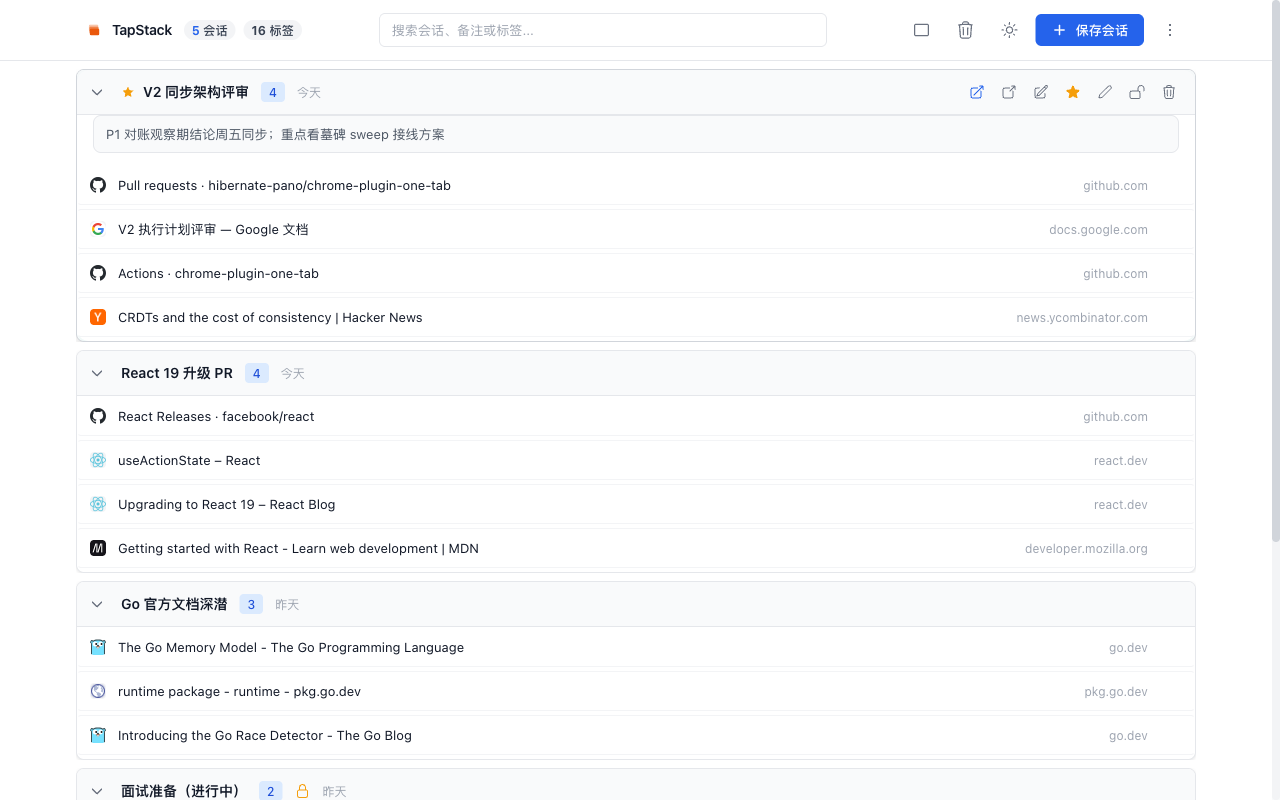
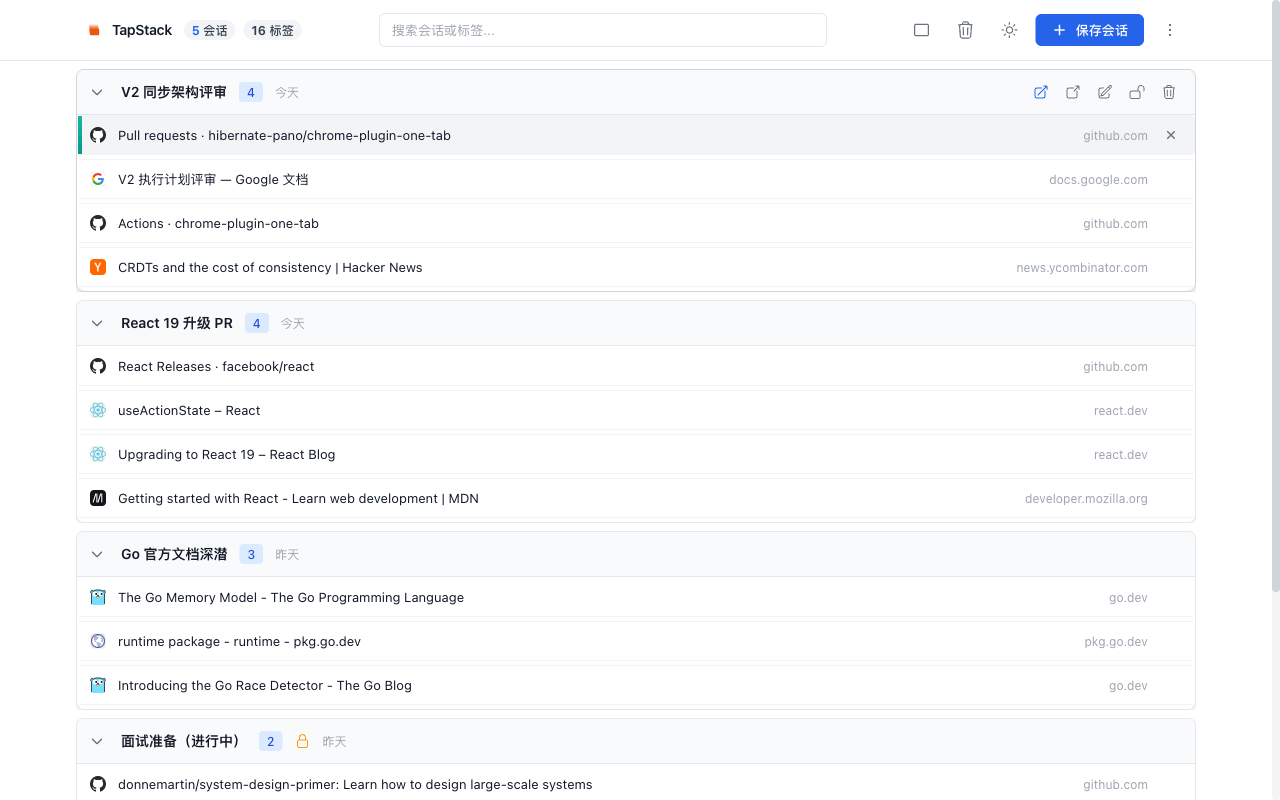
chore(release): 1.22.15 版本五处同步 + 发版台账 + 商店 listing/截图收口
- 版本号一次同步到位（package.json / manifest.json / .env.example / README /
  CHROMEWEBSTORE），中间 commit 不反复 bump。
- CHROMEWEBSTORE listing 删掉「点开标签会自动从会话中移除」（1.22.13 已反转）与
  「按域名排序视图」，中英各一处；两张截图 2026-10-08 重拍，状态改 ✅ Ready。
- docs/RELEASE-NOTES 补 v1.22.15 一节（含 P0 真库门禁环境适配与变异验证结果）。
- p0DataSafetyGuards 补三条守卫：listing 抽取不再被 HTML 注释里的 --- 骗过、
  listing 不得再写自动移除、引导与搜索框不得再出现「备注 / 收藏」。

diff --git a/tests/p0DataSafetyGuards.test.ts b/tests/p0DataSafetyGuards.test.ts
@@ -10,7 +10,8 @@
 
 import { describe, it, before } from 'node:test';
 import assert from 'node:assert/strict';
-import { readFileSync } from 'node:fs';
+import { readFileSync, readdirSync } from 'node:fs';
+import { fileURLToPath } from 'node:url';
 
 const ROOT = new URL('..', import.meta.url);
 const read = (rel: string) => readFileSync(new URL(rel, ROOT), 'utf8');
@@ -20,6 +21,18 @@ function code(rel: string): string {
   return read(rel)
     .replace(/\/\*[\s\S]*?\*\//g, '')
     .replace(/(^|[^:])\/\/.*$/gm, '$1');
+}
+
+/**
+ * 抽出商店 listing 的正文（中英两段）。
+ *
+ * 【为什么不能用 '---' 切】历史版本写的是 .split('---')[0]，而第一个 '---' 出现在
+ * listing 上方第 20 行的 **HTML 注释**里（「中英双语用 --- 分隔」）—— 于是断言只扫到
+ * 65 个字符的注释碎片，永远读不到正文。后果是 1.22.13 删了功能、listing 却继续宣传
+ * 旧行为，而「本该拦住它的守卫」一直是绿的。'## ' 标题只出现在文档骨架里，安全。
+ */
+function listingBody(): string {
+  return read('CHROMEWEBSTORE.md').split('**Detailed Description**')[1]?.split('\n## ')[0] ?? '';
 }
 
 before(() => {
@@ -189,17 +202,80 @@ describe('减法（2026-10-07）：备注与收藏已下线，不得复活', () 
   });
 
   it('文档不得再宣传这两项（商店审核会核对）', () => {
-    for (const doc of ['README.md', 'CHROMEWEBSTORE.md']) {
-      const src = read(doc);
-      // 历史 changelog 行允许出现（那是版本史），只查「当前能力」段落。
-      const capability = src.split('## 当前能力')[1]?.split('\n## ')[0] ?? '';
-      const listing = src.split('**Detailed Description**')[1]?.split('---')[0] ?? '';
-      for (const text of [capability, listing]) {
-        assert.ok(
-          !/备注|收藏/.test(text),
-          `${doc} 的能力介绍里还有「备注」或「收藏」—— 功能已下线，文案必须同步`
-        );
-      }
+    // 商店 listing 正文 —— 审核员读的就是这一段。
+    const listing = listingBody();
+    assert.ok(
+      listing.length > 400,
+      `CHROMEWEBSTORE.md 的 listing 正文只抽到 ${listing.length} 字符，抽取逻辑退化了（应能读到中英两段正文）`
+    );
+
+    // README 用的是另一套骨架，没有 Detailed Description，抽「当前能力」段。
+    const capability = read('README.md').split('## 当前能力')[1]?.split('\n## ')[0] ?? '';
+    assert.ok(
+      capability.length > 100,
+      `README.md 的「当前能力」段只抽到 ${capability.length} 字符，抽取逻辑退化了`
+    );
+
+    for (const [name, text] of [
+      ['CHROMEWEBSTORE.md listing', listing],
+      ['README.md 当前能力', capability],
+    ] as const) {
+      assert.ok(
+        !/备注|收藏/.test(text),
+        `${name} 里还有「备注」或「收藏」—— 功能已下线，文案必须同步`
+      );
     }
+  });
+
+  it('商店 listing 不得声称「点开标签会自动从会话移除」（1.22.13 已反转）', () => {
+    // 这条是审核员会读的正文。1.22.13 把「点开即删」改成两步（先标记已打开，
+    // 再用独立按钮移除），但同一份提交的 listing 第 27/46 行仍在写旧行为 ——
+    // 描述与实现相反，且与自己的 changelog 自相矛盾。
+    const listing = listingBody();
+    assert.ok(listing.length > 400, 'listing 抽取失败，无法判断（见上一条的抽取断言）');
+    assert.ok(
+      !/自动从会话中移除/.test(listing),
+      '中文 listing 仍写「点开单个标签…它会自动从会话中移除」—— 该行为已于 1.22.13 移除'
+    );
+    assert.ok(
+      !/it is then removed from the session/.test(listing),
+      'English listing still promises the tab is removed from the session on click — reversed in 1.22.13'
+    );
+  });
+
+  it('新手引导与搜索框等用户可见文案里不得再出现「备注 / 收藏」', () => {
+    // 【为什么单独加这一条】前一版守卫只扫标识符（FavoriteIcon / searchNotes /
+    // group.notes）与两份文档的「当前能力」段，于是 1.22.13 把功能删干净了、
+    // 文案却一处没动：OnboardingSteps 还有整张「备注与收藏」「⭐ 收藏重要会话」
+    // 特性卡，Header 的搜索框 placeholder/aria-label 也还在写「备注」。
+    // 新手引导是**每个新用户的第一屏**。标识符守卫防「功能复活」，
+    // 文本守卫防「宣传没删」—— 两个不同的问题。
+    const offenders: string[] = [];
+    const walk = (dir: URL): string[] => {
+      const entries = readdirSync(dir, { withFileTypes: true });
+      const files: string[] = [];
+      for (const e of entries) {
+        const child = new URL(e.name + (e.isDirectory() ? '/' : ''), dir);
+        if (e.isDirectory()) files.push(...walk(child));
+        else if (/\.(ts|tsx)$/.test(e.name)) files.push(fileURLToPath(child));
+      }
+      return files;
+    };
+
+    for (const file of walk(new URL('src/', ROOT))) {
+      const stripped = readFileSync(file, 'utf8')
+        .replace(/\/\*[\s\S]*?\*\//g, ' ')
+        .replace(/(^|[^:])\/\/[^\n]*/g, '$1');
+      stripped.split('\n').forEach((line, i) => {
+        if (/备注|收藏/.test(line)) {
+          offenders.push(`${file.replace(fileURLToPath(ROOT), '')}:${i + 1}  ${line.trim().slice(0, 90)}`);
+        }
+      });
+    }
+    assert.deepEqual(
+      offenders,
+      [],
+      `以下 src 文件仍有用户可见的「备注 / 收藏」文案（功能已于 1.22.13 下线，新手引导与搜索框是最常漏的两处）：\n  ${offenders.join('\n  ')}`
+    );
   });
 });

diff --git a/docs/RELEASE-NOTES.md b/docs/RELEASE-NOTES.md
@@ -8,6 +8,119 @@
 > 长期台账**（含根因、踩坑、修复顺序），不必翻译成英文、不必对齐商店审核口径。
 > 两边都会写「本版改了什么」，但只有本文件会记住「为什么」和「后来怎么验证的」。
 
+## v1.22.15（2026-10-07，待提审）
+
+**这版的由来**：1.22.14 提交后做了一轮五方向并行审查（1.22.12 / 1.22.13 / 1.22.14 各一，加上迁移与商店文案、测试质量两条横向）。结论是：**代码层面两个 P0 修复是真的关上了**，但「修复被守卫住」这件事没做到，而且商店面还挂着已下线功能的宣传。本版修的是审查确认的问题，并把「守卫本身不会红」这一类也补上。
+
+### P0 —— 会丢会话的分页缺陷
+
+1. **下载分页的排序键不允许并列**（`src/utils/supabase/download.ts`）。分页是 offset/limit，排序只给了 `created_at`。而 `created_at` **不是唯一键**：`oneTabFormatParser` 给同一批导入的每个组盖同一个 `now`，`factory` 用 `new Date().toISOString()`，连续快存会撞在同一毫秒。Postgres 对并列行不给跨查询顺序保证 ⇒ 页窗口重叠/跳过。
+
+   **实测量级**（真 PG 16，450 行同一 `created_at`）：三次连续下载分别漏掉 **113 / 114 / 105** 个不同 id，而且因为是短页退出（`page.length < PAGE_SIZE`），**没有任何报错**。
+
+   **后果是真丢数据**：漏掉的行被 `mergeOpStamped` 当作「云端不存在」，本地旧副本随后上传，覆盖掉更新的云端版本。
+
+   **原注释还写着错的结论**：「分页窗口基于稳定排序，页间无重叠/无遗漏」——这句话在非唯一排序键上不成立。
+
+   修法：`.order('created_at', {ascending:false}).order('id', {ascending:false})`，排序成为全序。
+
+   **为什么原测试抓不到**：`upsertDownloadBatching.test.ts` 的 fixture 用 `new Date(2026,0,1,0,0,0,i)` 造**严格递增**的 created_at，假云端又按插入顺序 slice —— **并列这个维度根本没被建模**。那是 fixture 的产物，不是现实。
+
+### P1 —— 读不到就必须说读不到，而不是编一个答案
+
+2. **`getLastUploadTime` 的 `catch { return null }`**（`src/utils/storage.ts`）。`null` 的语义是「从未上传过」，于是瞬时读失败（死句柄看门狗 abort / quota / 事务 abort）会把 35 秒的 `recent_upload_guard` 静默关掉。它与 `getPendingUpload` 在**同一个 `Promise.all`** 里被 `downloadAndMerge` 读取 —— 1.22.13 只把其中一个改成了 fail-closed。现在改为抛错，与兄弟函数同口径（调用方的 catch 已经会返回 `precheck_unknown`）。
+
+3. **JSON 备份导入的假成功**（`src/utils/storage.ts`）。全部标签都是不可存储 URL 时，`applyImportGroups` 过滤后返回空，但 `importData` 一路返回 `true` ⇒ 弹「成功」+ reload，列表什么都没多。1.22.14 把 `importFromOneTabFormat` 修好了，**JSON 这条路漏了**。现在发送前判「可导入组数」，为 0 时如实失败。
+
+3b. **旧备份文件的形状容错**（`src/core/normalizeTabsData.ts` 新增 `normalizeImportedGroup`）。这是用户报的「导入之前下载的标签失败」的**直接根因之一**：JSON 备份是用户手上的文件、形状不可信，而 `applyImportGroups` 直接 `group.tabs.reduce(...)` —— 组里没有 `tabs`（旧版本/云端导出用的是 `tabs_data`）就抛 `Cannot read properties of undefined (reading 'reduce')` 并让 `importData` 返回 false：用户看到「导入失败」却无从得知原因，**而他的文件其实是好的**。
+
+   下载路径早就用 `normalizeTabsData` 处理同一类形状（云端历史坏行），**导入路径此前没有** —— 这个不对称就是缺陷本身。现在两处同口径，并顺带补了**元素级**归一化（本地 `Tab` 是 camelCase `createdAt`/`lastAccessed`，云端 `TabData` 是 snake_case `created_at`/`last_accessed`；`normalizeTabsData` 只管容器形状、不管元素，所以从旧文件导入会丢时间戳 —— 该缺口在 `docs/dev-plan-2026-10-05.md` 的 A3 里已登记过）。容错清单：`tabs_data`/`tabsData`/`groups` 键名、嵌套 wrapper（`tabs_data:{tabs:[…]}`）、组与标签两级的 snake_case、缺 `name` 的可读回退、旧键 `is_locked`。
+
+   **验证**：6 条新用例走真实 `importData` 路径（断言发往 SW 的载荷）；另验证了分层不变 —— popup 交给 SW 的是**原始**标签，`chrome://` / `edge://` / `javascript:` 仍由 SW 侧 `applyImportGroups` 在落库前丢弃（安全边界未被放宽），`file://` 与 `blob:` 保留。
+
+4. **恢复会话路径把广播警告丢掉了**（`TabGroup.openAllTabs` + `SearchResultList` 三处）。删除类操作的第二步（云端删除标记登记）失败时 SW 会带 `broadcastWarn` 回来；UI 不读它，用户就以为删除/恢复成功，而云端行还活着 ⇒ 对端下次合并把会话复活（v1.22.0 起无回收站）。这两个调用点恰好是**最常用的「恢复整个会话」**。
+
+   **为什么原守卫抓不到**：`tests/noSilentFalseSuccess.test.ts` 断言的是 `deleteBroadcastWarn` 出现次数 `>= 3`。那是**计数**不是不变量 —— 实测再加一个不读警告的 `dispatch(deleteGroup(...))`，14 个用例依然全绿；而搜索列表那条路径里它出现 **0** 次却一路绿灯。已改成「每个删除类调用点的链上都必须读」，并对 4 个组件文件逐个调用点校验。
+
+5. **`precheck_unknown` 等内部代号直接弹给用户**（`src/components/sync/SyncButton.tsx`）。增补中文文案映射（`precheck_unknown` / `pending_upload_failed` / `snapshot_failed` / `already_syncing`）。
+
+### 商店面 —— 提审阻塞
+
+6. **新手引导仍在宣传已下线功能**（`src/components/onboarding/OnboardingSteps.tsx`）：还有整张「备注与收藏」卡、「⭐ 收藏重要会话」卡，以及三处提到「备注」的句子。**这是每个新用户的第一屏**。
+   顺带发现审查报告没提到的第六处：一张 **「Web 仪表盘」**卡（网页版在 1.22.11 已物理删除，README 已不再宣传），以及卡片文案里的「保存、重命名、备注都自动备份」。
+7. **搜索框 placeholder / aria-label 与空态提示**（`Header.tsx` / `SearchResultList.tsx`），并同步了 `OnboardingGuide` 的聚光灯锚点（`a11yLists.test.ts` 的「选择器能命中真实元素」守卫就是为这种失配准备的）。
+8. **商店 listing 仍在写「点开标签会自动从会话中移除」**（中英各一处）—— 正是 1.22.13 宣告反转的行为，与同一份提交的 changelog 自相矛盾。
+9. **搜索结果的「已打开」态从不渲染**：`markTabOpened` 一直在跑，但 `SearchResultList` 的行没有条件类也没有徽章（`DraggableTab` 有）。点开搜索命中后界面毫无变化，用户分不清「已标记」与「没生效」。已补齐，并统一了删除按钮文案。
+10. **两张商店截图已于 2026-10-08 重拍**（页脚 v1.22.15），两行状态 ✅ Ready。
+
+### 迁移重放 —— 静默跳过后面的安全迁移
+
+11. **全量重放会在第 2 个文件中止，后面 22 个文件从未尝试**。5 个历史文件是裸语句（真 PG 16 两遍重放实测）：
+    - `20251014063149` 2 条 `ALTER PUBLICATION … ADD TABLE`（**排在最前，所以一挂就断掉全部后续**）
+    - `20251014063156` 8 条裸 `CREATE POLICY`
+    - `20260303044037` 3 条、`20260303044048` 2 条（审查报告漏了这个文件）、`20260326034522` 4 条（小写 `create policy`，grep 大小写敏感时容易漏）
+
+    而 `scripts/supabase-migrate.mjs` 用一个 try 包住整个 for 循环、出错即 `process.exit(1)` ⇒ 后面的 `20261005000000`（profiles PII 收口）与 `20261005000001`（REVOKE）**从未被尝试**，`verify()` 也不跑。
+
+    修法：每条 DDL 先查存在性（`pg_catalog.pg_policy` **基表**，不用按 `polroles` 过滤的 `pg_policies` 视图）。另把 `20260924090000` 的 5 条也从不稳定的视图判定改成基表判定（它重放能过只因为迁移器以 owner 身份连接）。
+
+12. **verify 把「迁移未执行」报成通过**：缺 purge 函数时旧实现打印「尚未执行 —— 跳过」并 `return true`，实测在那种库上确实输出 `VERIFY OK`。现改为失败（缺哪个函数都报），并补上「profiles 存在但 RLS 关闭」这条此前也没检的路径。
+
+### 真库门禁本身（P0 —— 门禁在开发机上根本没跑起来）
+
+13. **两个 `*.pg.test.ts` 起的 Postgres 在本机必挂，而挂法是「cancelled」不是「fail」**。
+    Homebrew PG 16.15 在 `LC_ALL` 为空/未设时拒绝启动，真原因只写在 pg.log 里：
+    `FATAL: postmaster became multithreaded during startup` / `HINT: Set the LC_ALL environment variable to a valid locale.`，
+    而 pg_ctl 自己只回一句「无法启动服务器进程」。实测：`LC_ALL`+`LANG` 全无 → 起不来；
+    `LC_ALL=` `LANG=` → 起不来；`LC_ALL=C`（或 `LANG=C`）→ 正常。
+    测试用 `execFileSync` 原样继承宿主环境，于是本机（以及任何 locale 不完整的环境）上
+    **13 条真库用例全部 cancelled、fail 0** —— 报告看起来一切正常，门禁等于不存在。
+
+    修法（新共享起停器 `tests/_helpers/pgHarness.ts`，两份门禁共用）：
+    - 所有 initdb/pg_ctl/psql 子进程统一注入 `env: { ...process.env, LC_ALL: 'C', LANG: 'C' }`；
+    - 起库/初始化失败**不再从 `before` hook 抛**（那会让 node:test 把整组标成 cancelled），
+      而是记进 `setupError`，由 `gate()` 在每个用例里 `assert.fail`，并把 pg.log 尾部
+      带进失败信息 —— 「装了二进制但库起不来」一定是红的；
+    - `SKIP_REASON` 只留给「`initdb`/`pg_ctl`/`psql` 根本不存在」一种情形；
+    - 启动前探测端口：首选端口被占就向后换（每份门禁 20 个的窗口），全占满则显式失败
+      并列出占用端口，不静默 skip；两份门禁的首选端口仍为 5599 / 5601，互不冲突。
+
+### 验证
+
+- `pnpm test` **935 → 992**（1.22.15 收尾实测：pass 992 / fail 0 / **cancelled 0**，退出码 0），`pnpm validate` 全绿，首屏 **193.6KB**（预算 240KB）。
+  cancelled 从 13 归零就是上面第 13 条的直接结果：真库门禁此前在开发机上整组 cancelled，现在真的在跑。
+- **新增端到端同步走查** `tests/syncRoundTripWalkthrough.test.ts`（按时间顺序走完一条旅程，而不是拆成不变量）：A 建 3 个会话 → 上传 → B（全新设备）下载（逐字段一致）→ A 改名 → B 看到新名字 → A 删除 → 上传广播 → B 下载**不复活**；另加规模走查（260 个会话、`created_at` 故意全并列）验证分批上传（6 个 UPSERT 请求）与分页下载（每页 200）零丢失。假云端与 `syncNoResurrectInvariants` 同一套 PostgREST 子集契约（不另造方言），另加两个 BEFORE UPDATE 守卫的逐条判定。变异验证：把上传路径的 `markCloudGroupsAsDeleted` 改成 no-op ⇒ 走查转红。
+- **每个修复都做了变异验证**（改回缺陷 ⇒ 必须变红），逐条结果见下节。
+- **迁移用真 PG 16 两遍/三遍重放**验证，并做了**终态等价性对比**：把 HEAD 的原始迁移跑在「对象事先不存在」的库上取参考快照，与加守卫后的版本对比 `pg_policies`（含 qual / with_check）/ `pg_publication_tables` / `regrowsecurity` / 触发器 / 函数（含 SECURITY DEFINER 与 ACL）/ 列定义 —— **89 行快照逐字相同**，证明守卫只把「重复创建」变成 no-op，没有改变终态。
+- **新增杀菌门禁**：`tests/guards/migrationReplay.pg.test.ts`（文本护栏 + 真库两遍重放，无 PG 时 skip）、`tests/downloadPaginationStability.test.ts`（在假云端里建模「并列行顺序不稳定」，并断言 id 集合完整性 + 任一页失败必须整体失败）。
+
+### 变异验证结果（改回缺陷 ⇒ 红）
+
+| 变异 | 结果 |
+|---|---|
+| 去掉下载的 `id` tiebreaker | 5 条中 3 条红 |
+| 恢复 `getLastUploadTime` 的 `catch { return null }` | 红 |
+| 关掉 importData 的「全不可导入」守卫 | 红 |
+| 去掉 `importData` 里的 `normalizeImportedGroup` | 红（4 条） |
+| 在 TabGroup 加一个不读 broadcastWarn 的第 4 个删除点 | 红（**旧的计数断言在这个变异下是全绿的**） |
+| 去掉恢复路径的 broadcastWarn 读取 | 红 |
+| 引导文案写回「备注」 | 红 |
+| listing 写回「自动从会话中移除」 | 红 |
+| listing 写回「收藏」 | 红 |
+| 迁移里写回一条裸 `CREATE POLICY` | 红（文本护栏 + 真库重放同时红） |
+| 迁移里写回裸 `ALTER PUBLICATION` | 红 |
+| `20260924090000` 退回 `pg_policies` 视图判定 | 红 |
+| 去掉起 PG 子进程的 `LC_ALL`+`LANG` 注入（回到修复前） | 红（**真库用例全部 fail、cancelled 0**；只去掉其中一个键不够，另一个会补位，所以反向验证要两个一起去） |
+
+### 本版没做（有意）
+
+- **商店截图已在本版内完成重拍**：`scripts/make-store-screenshots.mjs` 在 1.22.13 已经改好（不再注入备注/收藏），2026-10-08 执行并生成两张新图（页脚 v1.22.15），状态 ✅ Ready。
+- **1.23 的治本项未动**：增量上传（本地 dirty 标记）、导入幂等、同步失败退避 —— 1.22.14 已把范围限定在止血，本版延续。
+- **测试基建的其余缺口**（审查发现，未在本版关闭）：`purgeExpiredCloudTombstones` 仍无覆盖（它是唯一物理 DELETE 云端行的代码）；`backgroundSync` 的 fail-closed 守卫仍无运行时测试（删掉它 935 全绿）；`downloadSettings` 的 snake_case→camelCase 映射无测试；原生拖拽的边界与节流无行为测试；`upsertRowsInBatches` 的「按批失败」注释与实现不符（实现是幂等全量重跑收敛，不是按批隔离）。建议单独一版做。
+- **agent 侧发现但未修的小项**：`productEvents.ts` / `diagnostics.ts` 里还留着 `session_favorited` 这个死事件名（英文标识符，用户不可见）；`downloadTabGroups` 以 PostgREST 错误对象（非 `Error` 实例）拒绝，调用方都取 `.message` 所以不影响行为。
+
+---
+
 ## v1.22.14（2026-10-07，待提审）
 
 **这版的由来**：Jasper 实测三个症状——导入之前下载的标签失败、清理重复标签

diff --git a/README.md b/README.md
@@ -1,8 +1,8 @@
 # TapStack
 
-当前版本：`1.22.14`
+当前版本：`1.22.15`
 
-最近变更：`v1.22.0` 无墓碑重写——
+最近一次架构重写：`v1.22.0` 无墓碑重写——
 
 1. **删除即删除**：彻底移除墓碑体系（本地回收站、标签级墓碑、URL 去重坟场、空壳清理补丁）。删除前确认保留（删除全部强制确认），删除后物理清除，不进回收站、不可恢复。
 2. **跨设备删除广播**：组删除经 `pendingDeleteIds` 队列 → 云端行标记 `is_deleted`（行保留 = 对端服从删除的载体）→ 30 天后物理清理；标签增删经组级 LWW **整组覆盖**广播（无 tab 级合并）。已知代价：两台设备同时编辑同一会话，后保存方整组赢。
